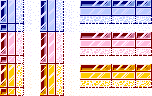
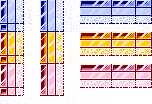
Implementació Superclasse Objectes dinamics + blocs de vidre

diff --git a/OpenGL_VS2015/2DGame/02-Bubble/02-Bubble/TileMap.cpp b/OpenGL_VS2015/2DGame/02-Bubble/02-Bubble/TileMap.cpp
@@ -3,6 +3,7 @@
 #include <sstream>
 #include <vector>
 #include "TileMap.h"
+#include "DynamicObj.h"
 
 
 using namespace std;
@@ -166,6 +167,16 @@ bool TileMap::collisionMoveLeft(const glm::ivec2& pos, const glm::ivec2& size) c
 		char aux = map[y * mapSize.x + x];
 		if (aux != '\0' && aux != 'v' && aux != 'b' && aux != 'n' && aux != 'V' && aux != 'B' && aux != 'N')
 			return true;
+		///////////////mirem si hi ha objectes dinamics solids/////////
+		for (auto it = objs.begin(); it != objs.end(); ++it) {
+			glm::ivec2 posA = (*it)->posObj();
+			glm::ivec2 sizeA = (*it)->sizeObj();
+			int xe = posA.x / tileSize;
+			int yt = posA.y / tileSize;
+			int yb = yt + sizeA.y / tileSize;
+			if (y <= yb && y >= yt && x == xe)
+				return true;
+		}
 	}
 
 	return false;
@@ -183,6 +194,16 @@ bool TileMap::collisionMoveRight(const glm::ivec2& pos, const glm::ivec2& size) 
 		char aux = map[y * mapSize.x + x];
 		if (aux != '\0' && aux != 'v' && aux != 'b' && aux != 'n' && aux != 'V' && aux != 'B' && aux != 'N')
 			return true;
+		///////////////mirem si hi ha objectes dinamics solids/////////
+		for (auto it = objs.begin(); it != objs.end(); ++it) {
+			glm::ivec2 posA = (*it)->posObj();
+			glm::ivec2 sizeA = (*it)->sizeObj();
+			int xe = posA.x / tileSize;
+			int yt = posA.y / tileSize;
+			int yb = yt + sizeA.y / tileSize;
+			if (y <= yb && y >= yt && x == xe)
+				return true;
+		}
 	}
 
 	return false;
@@ -197,6 +218,7 @@ bool TileMap::collisionMoveDown(const glm::ivec2& pos, const glm::ivec2& size, i
 	y = (pos.y + size.y - 1) / tileSize;
 	for (int x = x0; x <= x1; x++)
 	{
+		///////////////mirem si hi ha objectes solids de tilemap/////////
 		char aux = map[y * mapSize.x + x];
 		if (aux != '\0' && aux != 'v' && aux != 'b' && aux != 'n')
 		{
@@ -204,6 +226,21 @@ bool TileMap::collisionMoveDown(const glm::ivec2& pos, const glm::ivec2& size, i
 			{
 				*posY = tileSize * y - size.y;
 				return true;
+			}
+		}
+		///////////////mirem si hi ha objectes dinamics solids/////////
+		for (auto it = objs.begin(); it != objs.end(); ++it) {
+			glm::ivec2 posA = (*it)->posObj();
+			glm::ivec2 sizeA = (*it)->sizeObj();
+			int xe = posA.x / tileSize;
+			int xd = xe + size.x / tileSize;
+			int ya = posA.y / tileSize;
+			if (x >= xe && x <= xd && y == ya) {
+				if (*posY - tileSize * y + size.y <= 4)
+				{
+					*posY = tileSize * y - size.y;
+					return true;
+				}
 			}
 		}
 	}
@@ -275,11 +312,19 @@ void TileMap::closestLadder(const glm::ivec2& pos, const glm::ivec2& size, int* 
 	for (int y = y0; y <= y1; y++)
 	{
 		char aux = map[y * mapSize.x + x];
-		if (aux == 'b' || aux == 'B')
+		if (aux == 'b' || aux == 'B') // centre d'escala
 			*posX = tileSize * x - size.x / 3;
-		if (aux == 'B')
+		if (aux == 'B') // centre de top ladder
 			*posY = tileSize * y - size.y/1.33333333;
 	}
+}
+
+void TileMap::addDObj(DynamicObj* dObj) {
+	objs.insert(dObj);
+}
+
+void TileMap::rmDObj(DynamicObj* dObj) {
+	objs.erase(dObj);
 }
 
 glm::vec2 TileMap::decodeMap(char l) {

diff --git a/OpenGL_VS2015/2DGame/02-Bubble/02-Bubble/GlassBlock.cpp b/OpenGL_VS2015/2DGame/02-Bubble/02-Bubble/GlassBlock.cpp
@@ -1,0 +1,73 @@
+#include "GlassBlock.h"
+
+enum GlassAnims {
+	SH3, DH3, SH4, DH4
+};
+
+GlassAnims decode(glm::ivec2 sz, bool dynamic) {
+	if (sz.x / 24 == 3) {
+		if (dynamic)
+			return DH3;
+		else
+			return SH3;
+	}
+	else if (sz.x / 24 == 4) {
+		if (dynamic)
+			return DH4;
+		else
+			return SH4;
+	}
+
+}
+
+void GlassBlock::init(const glm::ivec2& tileMapPos, glm::ivec2 posiO, glm::ivec2 sizeObj, int col, ShaderProgram& shaderProgram) {
+	size = sizeObj;
+	posi = posiO;
+	destroying = false;
+	tileMapDispl = tileMapPos;
+	spritesheet.loadFromFile("images/BreakingGlasses.png", TEXTURE_PIXEL_FORMAT_RGBA);
+	sprite = Sprite::createSprite(size, glm::vec2((sizeObj.x / 24) / 19.0, (sizeObj.y / 24) / 13.0), &spritesheet, &shaderProgram);
+	sprite->setNumberAnimations(4);
+
+	sprite->setAnimationSpeed(SH4, 8);
+	sprite->addKeyframe(SH4, glm::vec2(10.0 / 19.0, float(4 * col) / 13.0));
+
+	sprite->setAnimationSpeed(SH3, 8);
+	sprite->addKeyframe(SH3, glm::vec2(14.0 / 19.0, float(4 * col) / 13.0));
+
+	sprite->setAnimationSpeed(DH4, 15);
+	sprite->addKeyframe(DH4, glm::vec2(10.0 / 19.0, float(4.0 * col) / 13.0));
+	sprite->addKeyframe(DH4, glm::vec2(10.0 / 19.0, float(4.0 * col + 1.0) / 13.0));
+	sprite->addKeyframe(DH4, glm::vec2(10.0 / 19.0, float(4.0 * col + 2.0) / 13.0));
+	sprite->addKeyframe(DH4, glm::vec2(10.0 / 19.0, float(4.0 * col + 3.0) / 13.0));
+	sprite->addKeyframe(DH4, glm::vec2(4.0 * col / 19.0, 12.0 / 13.0));
+	sprite->addKeyframe(DH4, glm::vec2(14.0 / 19.0, 12.0 / 13.0));
+
+	sprite->setAnimationSpeed(DH3, 15);
+	sprite->addKeyframe(DH3, glm::vec2(14.0 / 19.0, float(4.0 * col) / 13.0));
+	sprite->addKeyframe(DH3, glm::vec2(14.0 / 19.0, float(4.0 * col + 1) / 13.0));
+	sprite->addKeyframe(DH3, glm::vec2(14.0 / 19.0, float(4.0 * col + 2) / 13.0));
+	sprite->addKeyframe(DH3, glm::vec2(14.0 / 19.0, float(4.0 * col + 3) / 13.0));
+	sprite->addKeyframe(DH3, glm::vec2(3.0 * col + 8.0 / 19.0, 12.0 / 13.0));
+	sprite->addKeyframe(DH3, glm::vec2(14.0 / 19.0, 12.0 / 13.0));
+
+	sprite->changeAnimation(decode(size, false));
+	tileMapDispl = tileMapPos;
+	sprite->setPosition(glm::vec2(float(tileMapDispl.x + posi.x), float(tileMapDispl.y + posi.y)));
+}
+void GlassBlock::update(int deltaTime) {
+	sprite->update(deltaTime);
+	if (destroying) {
+		if (cdDestroy > 0) {
+			cdDestroy--;
+		}
+		else
+			sprite->setAnimationSpeed(decode(size, true), 0);
+	}
+}
+
+void GlassBlock::destroy() {
+	sprite->changeAnimation(DH4);
+	destroying = true;
+	cdDestroy = 21;
+}

diff --git a/OpenGL_VS2015/2DGame/02-Bubble/02-Bubble/Scene.cpp b/OpenGL_VS2015/2DGame/02-Bubble/02-Bubble/Scene.cpp
@@ -35,14 +35,25 @@ void Scene::init()
 	player->init(glm::ivec2(SCREEN_X, SCREEN_Y), texProgram);
 	player->setPosition(glm::vec2(INIT_PLAYER_X_TILES * map->getTileSize(), INIT_PLAYER_Y_TILES * map->getTileSize()));
 	player->setTileMap(map);
+	gb = new GlassBlock();
+	gb->init(glm::ivec2(SCREEN_X, SCREEN_Y), glm::ivec2(24 * 37, 24 * 15), glm::ivec2(96, 24), 1, texProgram);
+	gb->setTileMap(map);
+	map->addDObj(gb);
 	projection = glm::ortho(0.f, float(SCREEN_WIDTH), float(SCREEN_HEIGHT), 0.f);
 	currentTime = 0.0f;
+	aux = false;
 }
 
 void Scene::update(int deltaTime)
 {
 	currentTime += deltaTime;
 	player->update(deltaTime);
+	gb->update(deltaTime);
+	if (Game::instance().getKey(GLFW_KEY_SPACE) && aux == false) {
+		map->rmDObj(gb);
+		gb->destroy();
+		aux = true;
+	}
 }
 
 void Scene::render()
@@ -57,6 +68,7 @@ void Scene::render()
 	texProgram.setUniform2f("texCoordDispl", 0.f, 0.f);
 	map->render();
 	player->render();
+	gb->render();
 }
 
 void Scene::initShaders()

diff --git a/OpenGL_VS2015/2DGame/02-Bubble/02-Bubble/TileMap.h b/OpenGL_VS2015/2DGame/02-Bubble/02-Bubble/TileMap.h
@@ -3,6 +3,7 @@
 
 
 #include <glm/glm.hpp>
+#include <set>
 #include "Texture.h"
 #include "ShaderProgram.h"
 
@@ -12,6 +13,7 @@
 // it builds a single VBO that contains all tiles. As a result the render
 // method draws the whole map independently of what is visible.
 
+class DynamicObj;
 
 class TileMap
 {
@@ -37,6 +39,8 @@ public:
 	bool onLadder(const glm::ivec2& pos, const glm::ivec2& size) const;
 	bool underLadder(const glm::ivec2& pos, const glm::ivec2& size, int* posY) const;
 	void closestLadder(const glm::ivec2& pos, const glm::ivec2& size, int* posX, int* posY) const;
+	void addDObj(DynamicObj* dObj);
+	void rmDObj(DynamicObj* dObj);
 
 private:
 	bool loadLevel(const string& levelFile);
@@ -53,6 +57,7 @@ private:
 	Texture tilesheet;
 	glm::vec2 tileTexSize;
 	char* map;
+	std::set<DynamicObj*> objs;
 
 };
 

diff --git a/OpenGL_VS2015/2DGame/02-Bubble/02-Bubble/DynamicObj.h b/OpenGL_VS2015/2DGame/02-Bubble/02-Bubble/DynamicObj.h
@@ -1,0 +1,30 @@
+#ifndef _DYNAMICOBJ_INCLUDE
+#define _DYNAMICOBJ_INCLUDE
+
+#include "Sprite.h"
+#include "TileMap.h"
+
+
+class DynamicObj
+{
+public:
+	virtual void init(const glm::ivec2& tileMapPos, glm::ivec2 posiO, glm::ivec2 sizeObj, int col, ShaderProgram& shaderProgram);
+	virtual void update(int deltaTime);
+	void render();
+
+	void setTileMap(TileMap* tileMap);
+	glm::ivec2 posObj();
+	glm::ivec2 sizeObj();
+
+	glm::ivec2 tileMapDispl, posi, size;
+	Texture spritesheet;
+	Sprite* sprite;
+	TileMap* map;
+
+
+protected:
+	DynamicObj();
+};
+
+#endif
+

diff --git a/OpenGL_VS2015/2DGame/02-Bubble/02-Bubble/DynamicObj.cpp b/OpenGL_VS2015/2DGame/02-Bubble/02-Bubble/DynamicObj.cpp
@@ -1,0 +1,23 @@
+#include "DynamicObj.h"
+
+DynamicObj::DynamicObj() {}
+
+void DynamicObj::init(const glm::ivec2& tileMapPos, glm::ivec2 posiO, glm::ivec2 sizeObj, int col, ShaderProgram& shaderProgram) {}
+
+void DynamicObj::update(int deltaTime) {}
+
+void DynamicObj::render() {
+	sprite->render();
+}
+
+void DynamicObj::setTileMap(TileMap* tileMap) {
+	map = tileMap;
+}
+
+glm::ivec2 DynamicObj::posObj() {
+	return posi;
+}
+
+glm::ivec2 DynamicObj::sizeObj() {
+	return size;
+}

diff --git a/OpenGL_VS2015/2DGame/02-Bubble/02-Bubble/GlassBlock.h b/OpenGL_VS2015/2DGame/02-Bubble/02-Bubble/GlassBlock.h
@@ -1,0 +1,18 @@
+#ifndef _GLASSBLOCK_INCLUDE
+#define _GLASSBLOCK_INCLUDE
+
+#include "DynamicObj.h"
+
+class GlassBlock : public DynamicObj {
+public:
+    void init(const glm::ivec2& tileMapPos, glm::ivec2 posiO, glm::ivec2 sizeObj, int col, ShaderProgram& shaderProgram) override;
+    void update(int deltaTime) override;
+    void destroy();
+private:
+    bool destroying;
+    int color;
+    int cdDestroy;
+
+};
+
+#endif

diff --git a/OpenGL_VS2015/2DGame/02-Bubble/02-Bubble/Scene.h b/OpenGL_VS2015/2DGame/02-Bubble/02-Bubble/Scene.h
@@ -6,6 +6,7 @@
 #include "ShaderProgram.h"
 #include "TileMap.h"
 #include "Player.h"
+#include "GlassBlock.h"
 
 
 // Scene contains all the entities of our game.
@@ -29,9 +30,11 @@ private:
 private:
 	TileMap *map;
 	Player *player;
+	GlassBlock* gb;
 	ShaderProgram texProgram;
 	float currentTime;
 	glm::mat4 projection;
+	bool aux;
 
 };
 

diff --git a/OpenGL_VS2015/2DGame/02-Bubble/02-Bubble/Player.h b/OpenGL_VS2015/2DGame/02-Bubble/02-Bubble/Player.h
@@ -28,7 +28,7 @@ private:
 	bool lastDir;
 	bool iOc;
 	glm::ivec2 tileMapDispl, posPlayer, size;
-	int jumpAngle, startY;
+	int startY;
 	Texture spritesheet;
 	Sprite* sprite;
 	TileMap* map;
